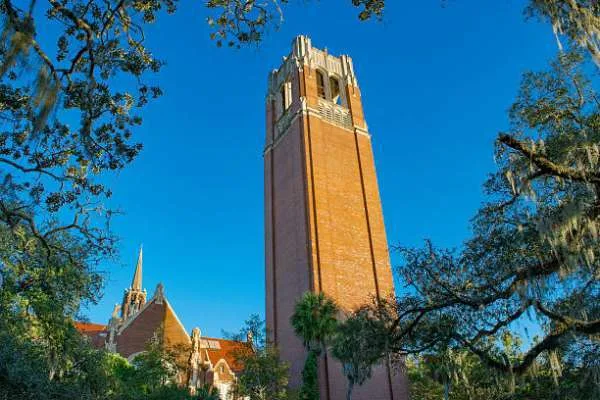
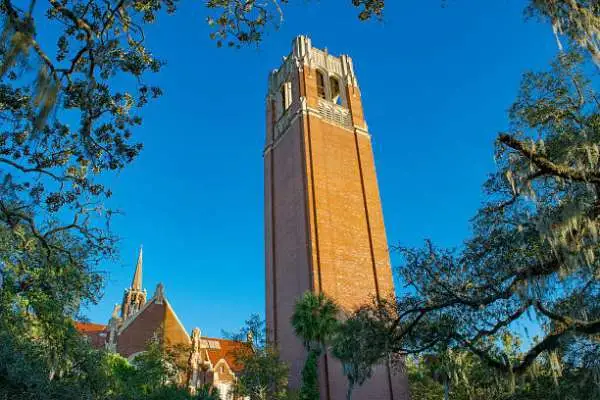
Keep keyboard focus inside atlas drawer and trim campus image

diff --git a/src/components/RootsExplorer.tsx b/src/components/RootsExplorer.tsx
@@ -20,6 +20,15 @@ export default function RootsExplorer() {
       Explore my roots <span aria-hidden="true">↗</span>
     </motion.button>
     <dialog className="roots-dialog roots-drawer" ref={dialog} aria-label="Different places. One story."
+      onKeyDown={event => {
+        if (event.key !== 'Tab') return;
+        const controls = Array.from(event.currentTarget.querySelectorAll<HTMLElement>('button, a[href], summary, input, select, textarea, [tabindex="0"]'))
+          .filter(element => element.getClientRects().length > 0 && !element.hasAttribute('disabled') && !element.closest('[inert]'));
+        const first = controls[0], last = controls[controls.length - 1];
+        if (!first) { event.preventDefault(); return; }
+        if (event.shiftKey && document.activeElement === first) { event.preventDefault(); last.focus(); }
+        else if (!event.shiftKey && document.activeElement === last) { event.preventDefault(); first.focus(); }
+      }}
       onCancel={event => { event.preventDefault(); close(); }}
       onClose={() => { setOpen(false); trigger.current?.focus(); }}
       onClick={event => { if (event.target === dialog.current) close(); }}>
